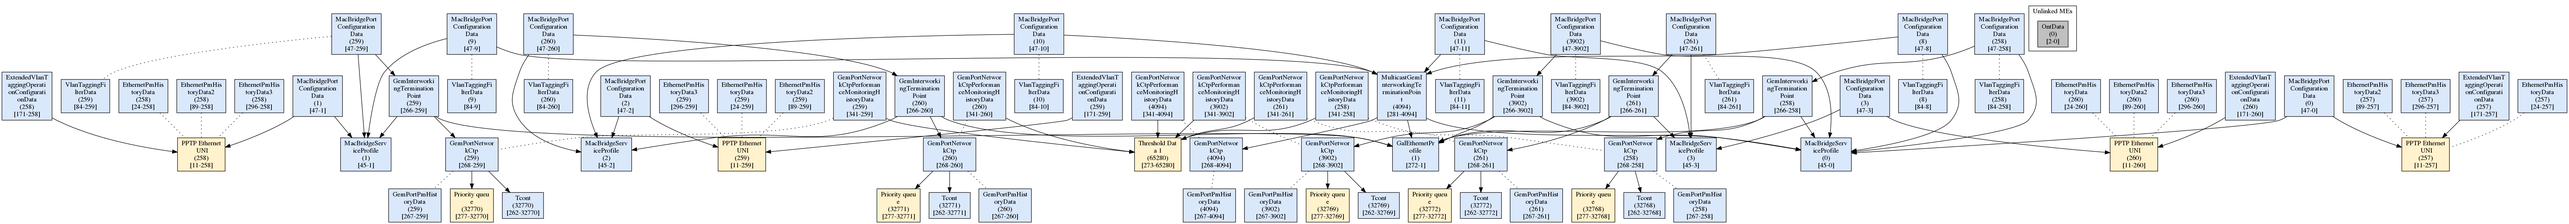
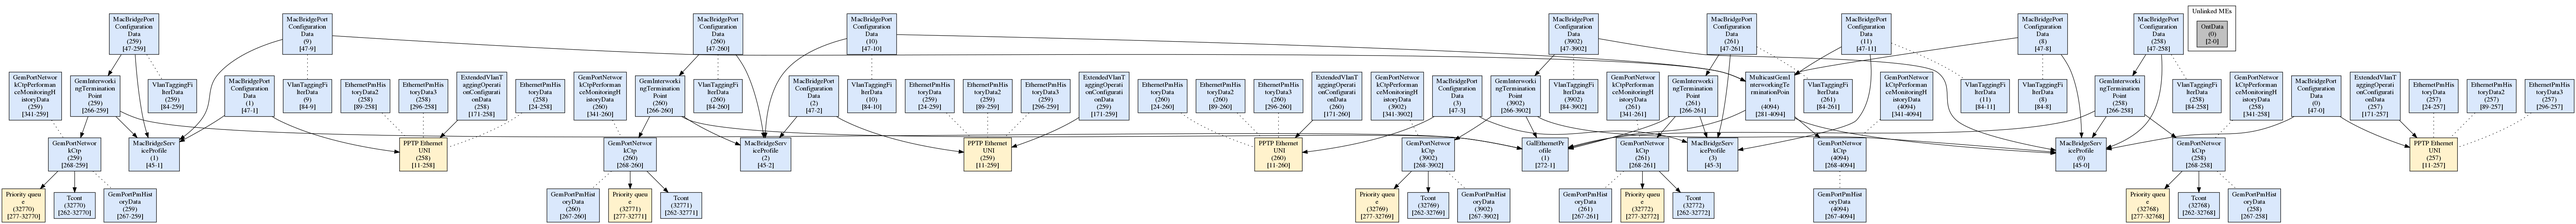
Fix ME 341 set-by-create in first attribute

diff --git a/utils/me_base.py b/utils/me_base.py
@@ -2763,7 +2763,7 @@ class GemPortNetworkCtpPerformanceMonitoringHistoryData(ManagedEntity):
         ManagedEntity.__init__(self, 341, instance)
         self.name = "GemPortNetworkCtpPerformanceMonitoringHistoryData"
         self.imp_link = [268]
-        self.interval_end_time = MeAttribute("Interval end time", 1, True, True, MeAttribute.READ_PERMISSION, None)
+        self.interval_end_time = MeAttribute("Interval end time", 1, False, True, MeAttribute.READ_PERMISSION, None)
         self.threshold_data_id_pointer = MeAttribute("Threshold data ID pointer", 2, True, True, MeAttribute.READ_WRITE_PERMISSION, None)
         self.transmitted_gem_frames = MeAttribute("Transmitted GEM frames", 4, False, True, MeAttribute.READ_PERMISSION, None)
         self.received_gem_frames = MeAttribute("Received GEM frames", 4, False, True, MeAttribute.READ_PERMISSION, None)
